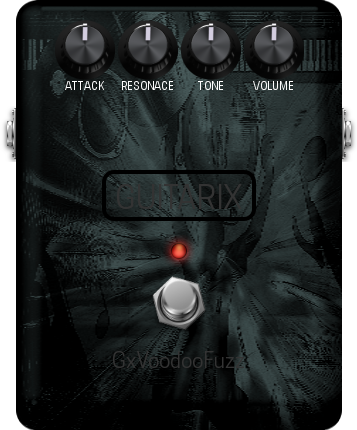
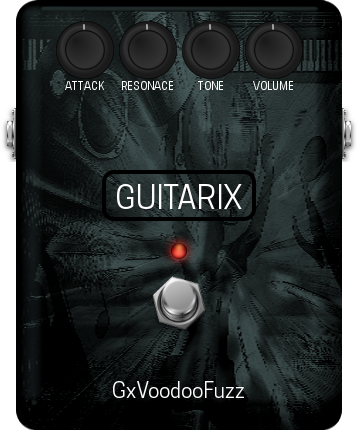
* reworked MOD UI

diff --git a/MOD/modgui/stylesheet-gxvoodoofuzz.css b/MOD/modgui/stylesheet-gxvoodoofuzz.css
@@ -91,7 +91,7 @@
     position:absolute;
     right:30px;
     text-align:center;
-    top:340px;
+    top:370px;
 }
 
 .mod-pedal-boxy{{{cns}}} .mod-plugin-name h1 {
@@ -929,12 +929,20 @@
 .mod-pedal-boxy{{{cns}}}.mod-boxy75.mod-stb {
     background-image:url(/resources/pedals/boxy75/stb.png{{{ns}}});
 }
-}
 .mod-pedal-boxy{{{cns}}}.mod-voodoo {
     background-image:url(/resources/pedals/boxy/voodoo.png{{{ns}}});
 }
 .mod-pedal-boxy{{{cns}}}.mod-boxy75.mod-voodoo {
     background-image:url(/resources/pedals/boxy75/voodoo.png{{{ns}}});
+}
+.mod-pedal-boxy{{{cns}}}.mod-hyperion {
+    background-image:url(/resources/pedals/boxy/hyperion.png{{{ns}}});
+}
+.mod-pedal-boxy{{{cns}}}.mod-tonemachine {
+    background-image:url(/resources/pedals/boxy/tonemachine.png{{{ns}}});
+}
+.mod-pedal-boxy{{{cns}}}.mod-boxy75.mod-tonemachine {
+    background-image:url(/resources/pedals/boxy75/tonemachine.png{{{ns}}});
 }
 
 
@@ -961,6 +969,8 @@
 .mod-pedal-boxy{{{cns}}}.mod-green .mod-enumerated
 .mod-pedal-boxy{{{cns}}}.mod-saturator .mod-enumerated
 .mod-pedal-boxy{{{cns}}}.mod-stb .mod-enumerated
+.mod-pedal-boxy{{{cns}}}.mod-hyperion .mod-enumerated
+.mod-pedal-boxy{{{cns}}}.mod-tonemachine .mod-enumerated
 {
     background-image:url(/resources/utils/dropdown-arrow-white.png{{{ns}}});
 }
@@ -1031,19 +1041,25 @@
 .mod-pedal-boxy{{{cns}}}.mod-warning .mod-control-group .mod-knob > span.mod-knob-title,
 .mod-pedal-boxy{{{cns}}}.mod-green h1,
 .mod-pedal-boxy{{{cns}}}.mod-green .mod-enumerated,
-.mod-pedal-boxy{{{cns}}}.mod-green .mod-control-group .mod-knob > span.mod-knob-title
+.mod-pedal-boxy{{{cns}}}.mod-green .mod-control-group .mod-knob > span.mod-knob-title,
 .mod-pedal-boxy{{{cns}}}.mod-vintage h1,
 .mod-pedal-boxy{{{cns}}}.mod-vintage .mod-enumerated,
-.mod-pedal-boxy{{{cns}}}.mod-vintage .mod-control-group .mod-knob > span.mod-knob-title
+.mod-pedal-boxy{{{cns}}}.mod-vintage .mod-control-group .mod-knob > span.mod-knob-title,
 .mod-pedal-boxy{{{cns}}}.mod-saturator h1,
 .mod-pedal-boxy{{{cns}}}.mod-saturator .mod-enumerated,
-.mod-pedal-boxy{{{cns}}}.mod-saturator .mod-control-group .mod-knob > span.mod-knob-title
+.mod-pedal-boxy{{{cns}}}.mod-saturator .mod-control-group .mod-knob > span.mod-knob-title,
 .mod-pedal-boxy{{{cns}}}.mod-stb h1,
 .mod-pedal-boxy{{{cns}}}.mod-stb .mod-enumerated,
-.mod-pedal-boxy{{{cns}}}.mod-stb .mod-control-group .mod-knob > span.mod-knob-title
+.mod-pedal-boxy{{{cns}}}.mod-stb .mod-control-group .mod-knob > span.mod-knob-title,
 .mod-pedal-boxy{{{cns}}}.mod-voodoo h1,
 .mod-pedal-boxy{{{cns}}}.mod-voodoo .mod-enumerated,
-.mod-pedal-boxy{{{cns}}}.mod-voodoo .mod-control-group .mod-knob > span.mod-knob-title
+.mod-pedal-boxy{{{cns}}}.mod-voodoo .mod-control-group .mod-knob > span.mod-knob-title,
+.mod-pedal-boxy{{{cns}}}.mod-hyperion h1,
+.mod-pedal-boxy{{{cns}}}.mod-hyperion .mod-enumerated,
+.mod-pedal-boxy{{{cns}}}.mod-hyperion .mod-control-group .mod-knob > span.mod-knob-title,
+.mod-pedal-boxy{{{cns}}}.mod-tonemachine h1,
+.mod-pedal-boxy{{{cns}}}.mod-tonemachine .mod-enumerated,
+.mod-pedal-boxy{{{cns}}}.mod-tonemachine .mod-control-group .mod-knob > span.mod-knob-title
 {
     color:white;
 }
@@ -1156,4 +1172,6 @@
     background-image:url(/resources/knobs/boxy/black.png{{{ns}}});
 }.mod-pedal-boxy{{{cns}}} .mod-control-group.mod-green .mod-knob .mod-knob-image {
     background-image:url(/resources/knobs/boxy/green.png{{{ns}}});
+}.mod-pedal-boxy{{{cns}}} .mod-control-group.mod-cairo .mod-knob .mod-knob-image {
+    background-image:url(/resources/knobs/boxy/cairo.png{{{ns}}});
 }
